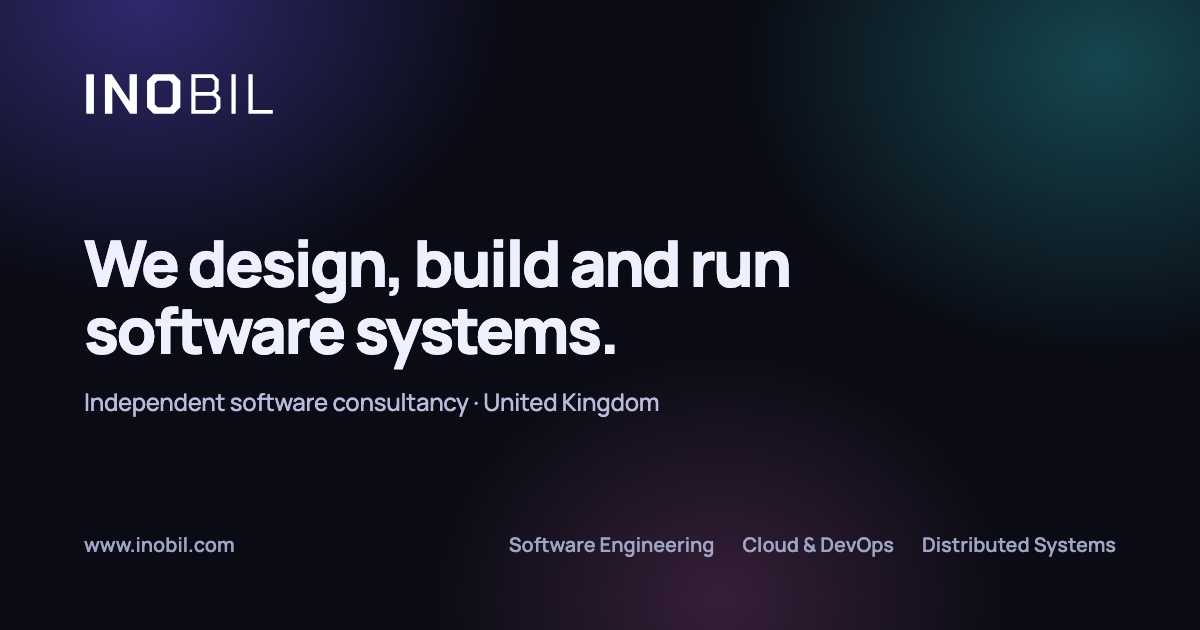
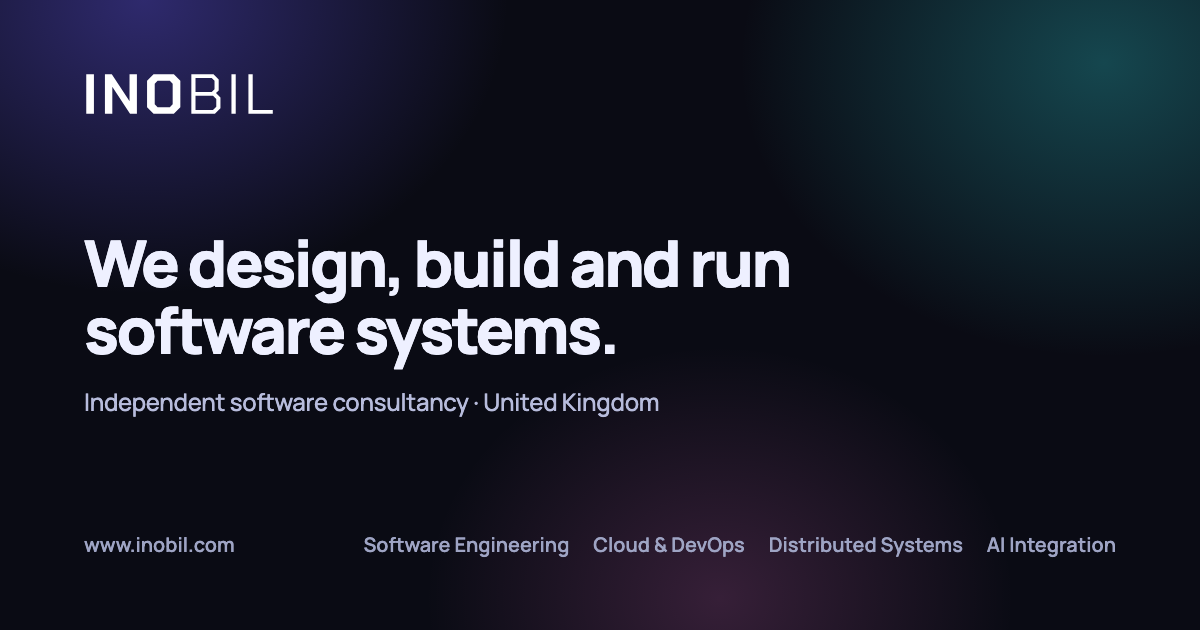
Add AI positioning across the site
- Hero lead and meta description mention AI integration
- 'AI Integration' added to services
- About names AI-assisted tooling (GitHub Copilot, Claude) as part of delivery
- Contact intro, structured-data knowsAbout and OG image updated to match
- Busy.me page notes the AI assistant infrastructure work
- Footer credits Claude Code alongside Markdown and git

Changed region(s): [[0.3083, 0.8444, 0.925, 0.9048]]

diff --git a/src/data/site.ts b/src/data/site.ts
@@ -3,14 +3,14 @@ export const site = {
   name: 'Inobil',
   domain: 'www.inobil.com',
   description:
-    'Inobil is an independent software consultancy: software engineering, cloud & DevOps, distributed systems, Kubernetes and automation — delivered end to end.',
+    'Inobil is an independent software consultancy: software engineering, cloud & DevOps, distributed systems, Kubernetes, automation and AI integration — delivered end to end.',
   hero: {
     eyebrow: 'Independent software consultancy',
     headline: 'We design, build and run software systems.',
     lead:
-      'Inobil is an independent software consultancy: software engineering, cloud & DevOps, distributed systems, Kubernetes and automation — delivered end to end.',
+      'Inobil is an independent software consultancy: software engineering, cloud & DevOps, distributed systems, Kubernetes, automation and AI integration — delivered end to end.',
   },
-  services: ['Software Development', 'Architecture', 'DevOps', 'Digital Transformation', 'Consultancy'],
+  services: ['Software Development', 'Architecture', 'DevOps', 'AI Integration', 'Digital Transformation', 'Consultancy'],
   work: {
     heading: 'Selected work',
     intro: 'Projects delivered with and for clients across the UK, Denmark and Turkey. All of them team efforts.',
@@ -18,7 +18,7 @@ export const site = {
   about: {
     heading: 'About',
     body:
-      'Inobil is the consultancy of Ugur Ozsahin, a multi-disciplinary engineer building software since 2006. The work spans backend engineering, distributed systems, cloud platforms (Azure, AWS), Kubernetes, CI/CD automation and observability, across C#, TypeScript, Go, Java and Python. The approach is simple: systems thinking, reliability without over-engineering, and ownership from design through deployment and operations.',
+      'Inobil is the consultancy of Ugur Ozsahin, a multi-disciplinary engineer building software since 2006. The work spans backend engineering, distributed systems, cloud platforms (Azure, AWS), Kubernetes, CI/CD automation and observability, across C#, TypeScript, Go, Java and Python. The approach is simple: systems thinking, reliability without over-engineering, and ownership from design through deployment and operations. AI-assisted tools such as GitHub Copilot and Claude take the repetitive parts of development off the table, so time goes into design, reliability and the problems that actually need a person.',
     person: 'Ugur Ozsahin',
     title: 'Software Engineer & Consultant',
   },
@@ -39,6 +39,8 @@ export const site = {
       'Infrastructure as code',
       'Observability',
       'Distributed systems and microservices',
+      'AI integration and LLM-powered product features',
+      'AI-assisted software development (GitHub Copilot, Claude)',
       'Digital transformation',
       'Optimizely (Episerver) CMS and commerce',
       'C#, TypeScript, Go, Java, Python',
@@ -46,7 +48,7 @@ export const site = {
   },
   contact: {
     heading: 'Contact',
-    intro: 'Open to engineering, architecture and DevOps engagements.',
+    intro: 'Open to engineering, architecture, DevOps and AI integration engagements.',
     email: 'ugurozsahin@inobil.com',
     github: 'https://github.com/ugurozsahin',
     linkedin: 'https://www.linkedin.com/in/ugurozsahin/',

diff --git a/src/content/projects/busyme.md b/src/content/projects/busyme.md
@@ -3,7 +3,7 @@ title: Busy.me
 client: Busy.me
 country: United Kingdom
 summary: Architecture and software development support during the MVP phase of Busy.me, an AI-powered assistant for tasks, notes, events and contacts.
-tags: [Architecture, Software Development, AI Assistant]
+tags: [Architecture, Software Development, AI Assistant, Infrastructure]
 cover: ../../assets/projects/busyme.png
 url: https://busy.me/home
 order: 40
@@ -11,4 +11,4 @@ order: 40
 
 Busy.me is an AI-powered productivity assistant that helps people manage tasks, notes, events and contacts from a single conversational interface.
 
-Inobil provided architecture and software development support while the product was in its MVP phase.
+Inobil provided architecture and software development support while the product was in its MVP phase, and helped design the backend and infrastructure that serve the AI assistant reliably at MVP scale.
